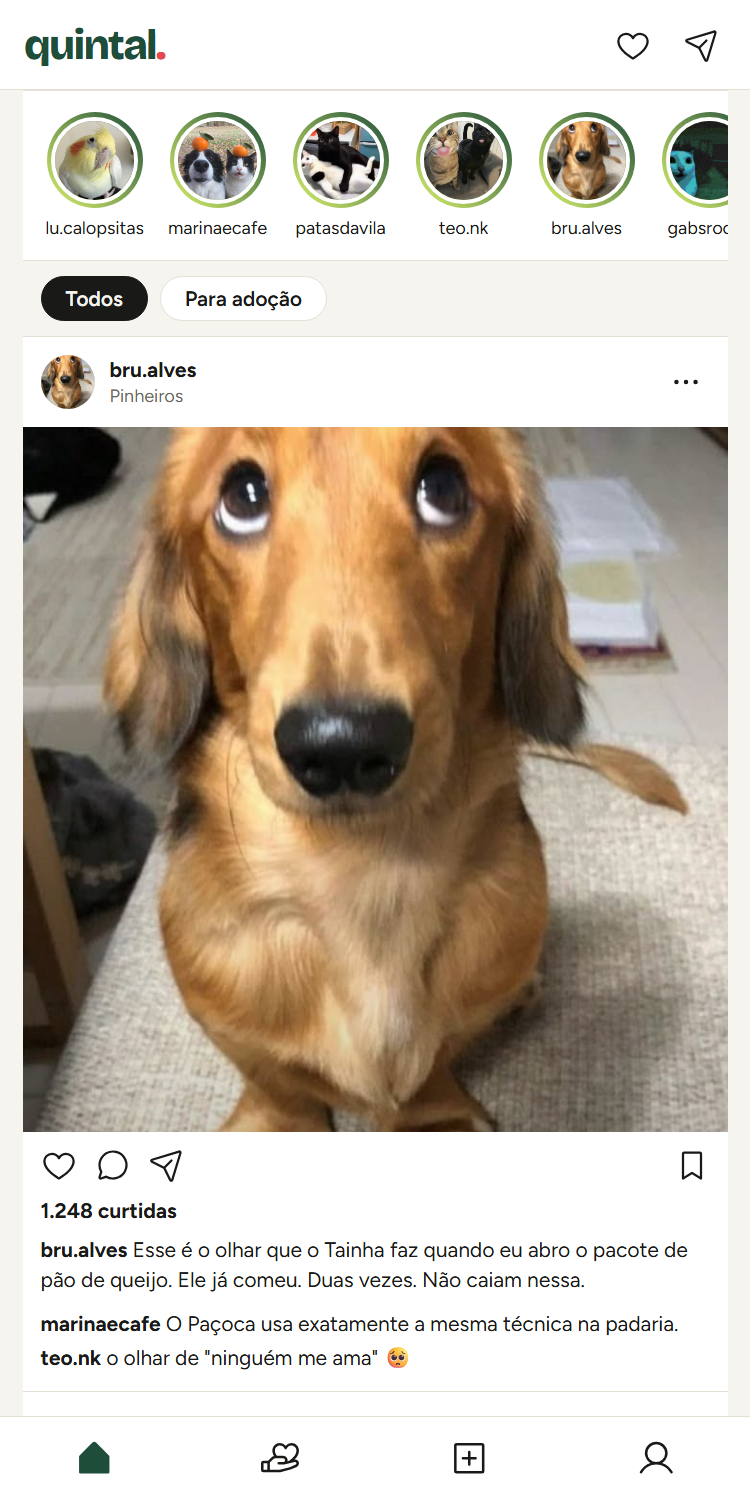
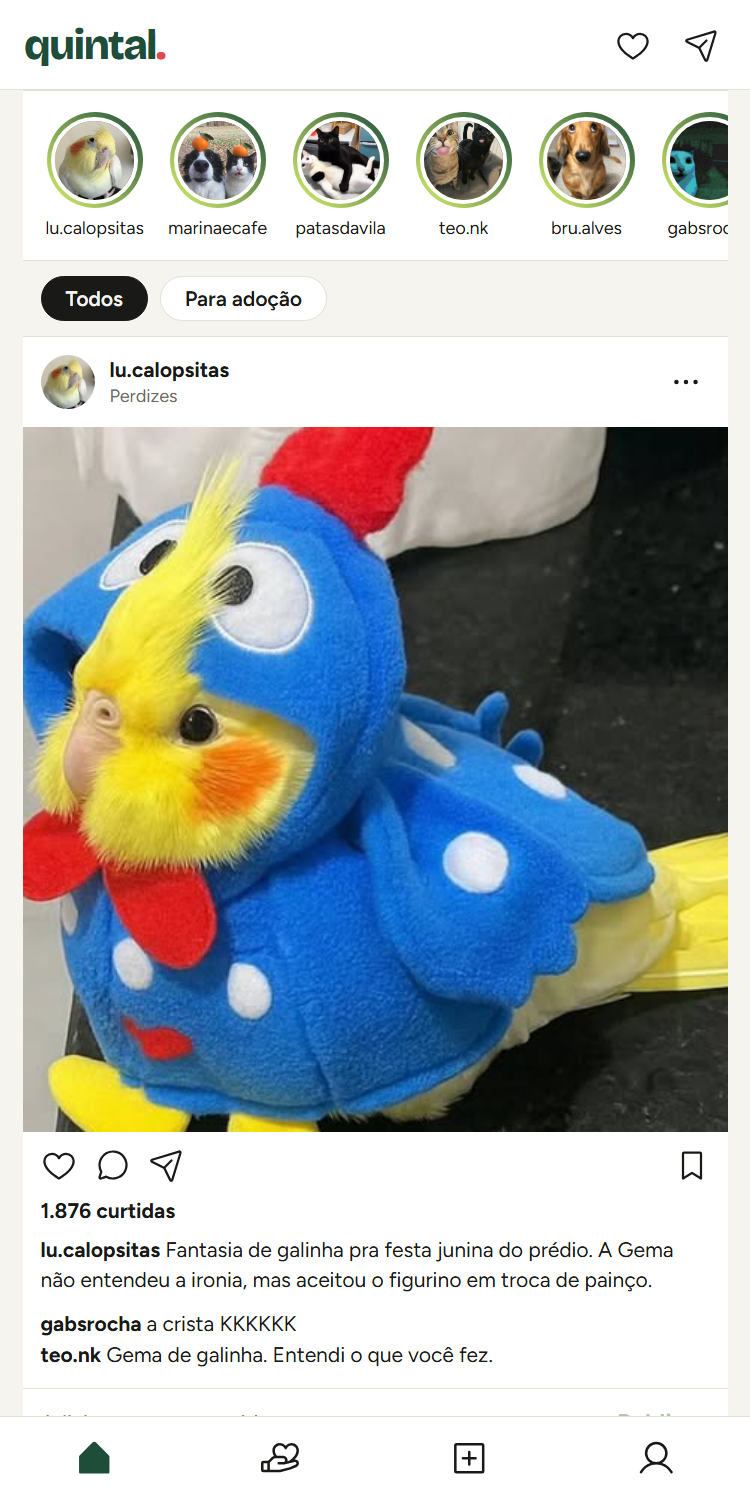
README centralizado e prints com a Gema no topo do feed

diff --git a/README.md b/README.md
@@ -9,9 +9,9 @@
 ![JavaScript](https://img.shields.io/badge/JavaScript-f7df1e?style=flat-square&logo=javascript&logoColor=black)
 ![CSS](https://img.shields.io/badge/CSS-663399?style=flat-square&logo=css&logoColor=white)
 
-</div>
+<br>
 
-## ✨ O que dá pra fazer
+<h2>✨ O que dá pra fazer</h2>
 
 <table>
   <tr>
@@ -26,29 +26,28 @@
   </tr>
 </table>
 
-## 📸 Telas
+<br>
 
-<div align="center">
-  <img src="docs/print-desktop.png" alt="O quintal no computador" width="100%">
-  <br><br>
-  <img src="docs/print-celular.png" alt="No celular, modo claro" width="40%">
-  &nbsp;&nbsp;&nbsp;
-  <img src="docs/print-escuro.png" alt="No celular, modo escuro" width="40%">
-</div>
+<h2>📸 Telas</h2>
 
-## ▶ Rodar no computador
+<img src="docs/print-desktop.png" alt="O quintal no computador" width="90%">
 
-<img src="docs/calopsita-no-notebook.gif" alt="Calopsita em pixel art sentada num notebook" width="150" align="right">
+<br><br>
 
-```bash
-npm install
-npm run dev
-```
+<img src="docs/print-celular.png" alt="No celular, modo claro" width="40%">
+&nbsp;&nbsp;&nbsp;
+<img src="docs/print-escuro.png" alt="No celular, modo escuro" width="40%">
 
-<br clear="right">
+<br><br>
 
----
+<h2>▶ Rodar no computador</h2>
 
-<div align="center">
+<code>npm install</code> &nbsp;→&nbsp; <code>npm run dev</code>
+
+<br><br><br>
+
+<img src="docs/calopsita-no-notebook.gif" alt="Calopsita em pixel art sentada num notebook" width="160">
+
 <sub>Feito por <a href="https://github.com/ViniciusAraujo-Coder">Vinicius Araujo</a> · pessoas fictícias · fotos do Pinterest, só para estudo</sub>
+
 </div>
